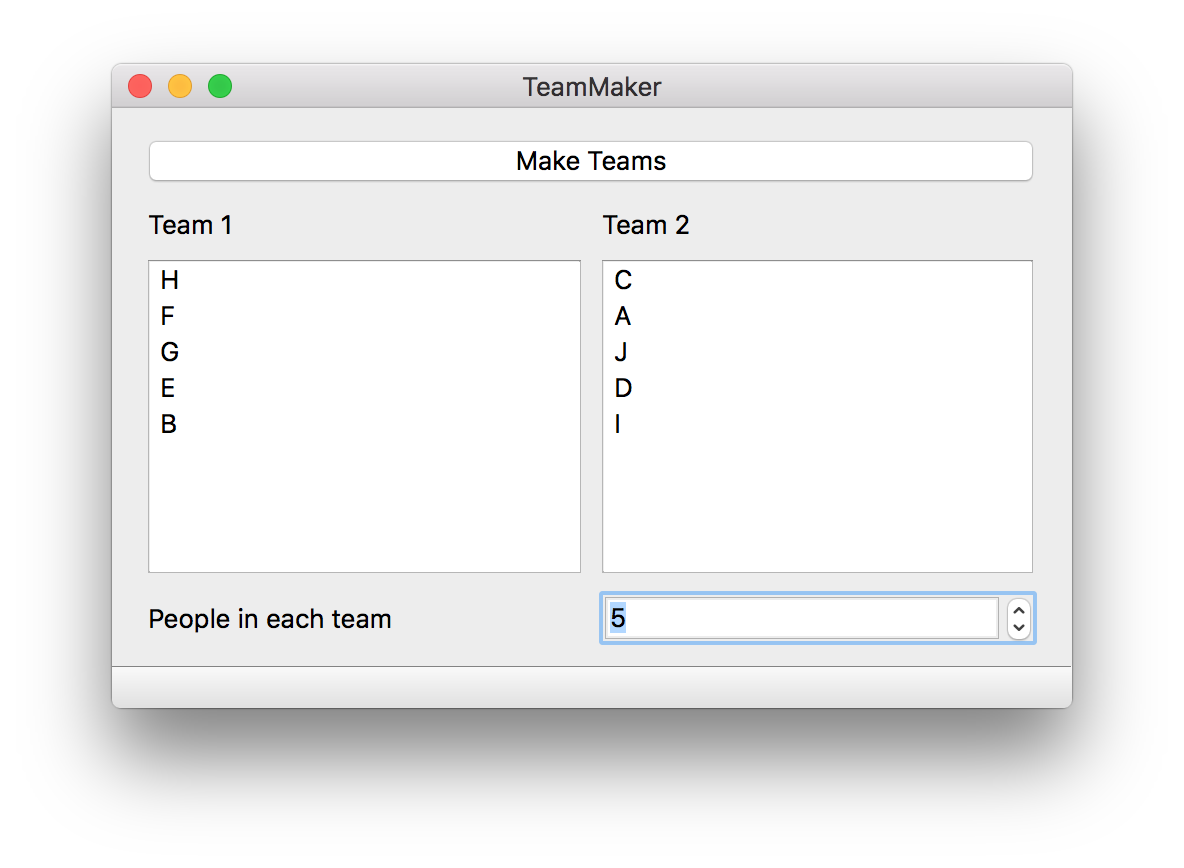
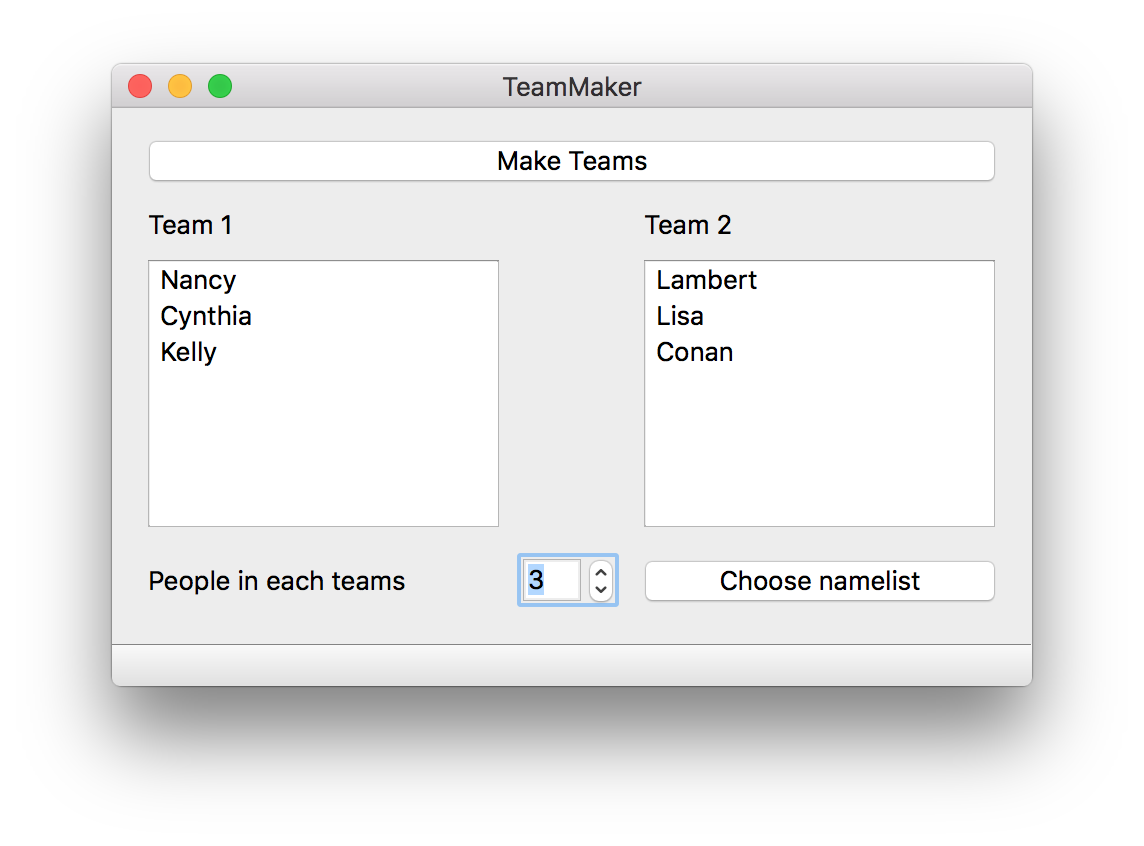
add file dialog

diff --git a/ui.py b/ui.py
@@ -1,6 +1,6 @@
 # -*- coding: utf-8 -*-
 
-# Form implementation generated from reading ui file '/Users/bill/Desktop/untitled.ui'
+# Form implementation generated from reading ui file 'ui.ui'
 #
 # Created by: PyQt5 UI code generator 5.5.1
 #
@@ -11,44 +11,45 @@ from PyQt5 import QtCore, QtGui, QtWidgets
 class Ui_MainWindow(object):
     def setupUi(self, MainWindow):
         MainWindow.setObjectName("MainWindow")
-        MainWindow.resize(480, 300)
+        MainWindow.resize(460, 289)
         self.centralwidget = QtWidgets.QWidget(MainWindow)
         self.centralwidget.setObjectName("centralwidget")
         self.gridLayout_2 = QtWidgets.QGridLayout(self.centralwidget)
         self.gridLayout_2.setObjectName("gridLayout_2")
         self.gridLayout = QtWidgets.QGridLayout()
         self.gridLayout.setObjectName("gridLayout")
-        self.label = QtWidgets.QLabel(self.centralwidget)
-        self.label.setObjectName("label")
-        self.gridLayout.addWidget(self.label, 1, 0, 1, 1)
-        self.listWidget = QtWidgets.QListWidget(self.centralwidget)
-        self.listWidget.setObjectName("listWidget")
-        self.gridLayout.addWidget(self.listWidget, 2, 0, 1, 1)
-        self.label_3 = QtWidgets.QLabel(self.centralwidget)
-        self.label_3.setObjectName("label_3")
-        self.gridLayout.addWidget(self.label_3, 3, 0, 1, 1)
-        spacerItem = QtWidgets.QSpacerItem(40, 20, QtWidgets.QSizePolicy.Expanding, QtWidgets.QSizePolicy.Minimum)
-        self.gridLayout.addItem(spacerItem, 3, 2, 1, 1)
-        self.spinBox = QtWidgets.QSpinBox(self.centralwidget)
-        self.spinBox.setObjectName("spinBox")
-        self.gridLayout.addWidget(self.spinBox, 3, 1, 1, 1)
-        self.pushButton = QtWidgets.QPushButton(self.centralwidget)
-        self.pushButton.setCheckable(False)
-        self.pushButton.setChecked(False)
-        self.pushButton.setFlat(False)
-        self.pushButton.setObjectName("pushButton")
-        self.gridLayout.addWidget(self.pushButton, 0, 0, 1, 2)
-        self.label_2 = QtWidgets.QLabel(self.centralwidget)
-        self.label_2.setObjectName("label_2")
-        self.gridLayout.addWidget(self.label_2, 1, 1, 1, 1)
         self.listWidget_2 = QtWidgets.QListWidget(self.centralwidget)
         self.listWidget_2.setObjectName("listWidget_2")
-        self.gridLayout.addWidget(self.listWidget_2, 2, 1, 1, 1)
-        self.gridLayout_2.addLayout(self.gridLayout, 0, 0, 1, 1)
+        self.gridLayout.addWidget(self.listWidget_2, 2, 3, 1, 1)
+        self.label_2 = QtWidgets.QLabel(self.centralwidget)
+        self.label_2.setObjectName("label_2")
+        self.gridLayout.addWidget(self.label_2, 1, 3, 1, 1)
+        self.pushButton = QtWidgets.QPushButton(self.centralwidget)
+        self.pushButton.setLayoutDirection(QtCore.Qt.LeftToRight)
+        self.pushButton.setObjectName("pushButton")
+        self.gridLayout.addWidget(self.pushButton, 0, 1, 1, 3)
+        self.listWidget = QtWidgets.QListWidget(self.centralwidget)
+        self.listWidget.setObjectName("listWidget")
+        self.gridLayout.addWidget(self.listWidget, 2, 1, 1, 1)
+        self.label = QtWidgets.QLabel(self.centralwidget)
+        self.label.setObjectName("label")
+        self.gridLayout.addWidget(self.label, 1, 1, 1, 1)
+        self.label_3 = QtWidgets.QLabel(self.centralwidget)
+        self.label_3.setObjectName("label_3")
+        self.gridLayout.addWidget(self.label_3, 3, 1, 1, 1)
+        self.spinBox = QtWidgets.QSpinBox(self.centralwidget)
+        self.spinBox.setObjectName("spinBox")
+        self.gridLayout.addWidget(self.spinBox, 3, 2, 1, 1)
+        self.pushButton_2 = QtWidgets.QPushButton(self.centralwidget)
+        self.pushButton_2.setEnabled(True)
+        self.pushButton_2.setFocusPolicy(QtCore.Qt.TabFocus)
+        self.pushButton_2.setObjectName("pushButton_2")
+        self.gridLayout.addWidget(self.pushButton_2, 3, 3, 1, 1)
+        self.gridLayout_2.addLayout(self.gridLayout, 2, 0, 1, 1)
         MainWindow.setCentralWidget(self.centralwidget)
-        self.statusBar = QtWidgets.QStatusBar(MainWindow)
-        self.statusBar.setObjectName("statusBar")
-        MainWindow.setStatusBar(self.statusBar)
+        self.statusbar = QtWidgets.QStatusBar(MainWindow)
+        self.statusbar.setObjectName("statusbar")
+        MainWindow.setStatusBar(self.statusbar)
 
         self.retranslateUi(MainWindow)
         QtCore.QMetaObject.connectSlotsByName(MainWindow)
@@ -56,8 +57,10 @@ class Ui_MainWindow(object):
     def retranslateUi(self, MainWindow):
         _translate = QtCore.QCoreApplication.translate
         MainWindow.setWindowTitle(_translate("MainWindow", "TeamMaker"))
-        self.label.setText(_translate("MainWindow", "Team 1"))
-        self.label_3.setText(_translate("MainWindow", "People in each team"))
-        self.pushButton.setText(_translate("MainWindow", "Make Teams"))
         self.label_2.setText(_translate("MainWindow", "Team 2"))
+        self.pushButton.setText(_translate("MainWindow", "Make Teams"))
+        self.label.setText(_translate("MainWindow", "Team 1"))
+        self.label_3.setText(_translate("MainWindow", "People in each teams"))
+        self.pushButton_2.setText(_translate("MainWindow", "Choose namelist"))
+        self.pushButton_2.sizeHint()
 

diff --git a/teammaker.py b/teammaker.py
@@ -1,34 +1,35 @@
-from PyQt5.QtWidgets import QApplication, QMainWindow
-from PyQt5.QtCore import Qt
+from PyQt5.QtWidgets import QApplication, QMainWindow, QFileDialog
 from ui import Ui_MainWindow
 import sys
 import os
 import random
-import time
 
 
 class MyMainWindow(QMainWindow, Ui_MainWindow):
     def __init__(self):
         super(MyMainWindow, self).__init__()
         self.setupUi(self)
-        # self.label.setText('Pros')
-        # self.label_2.setText('Cons')
         self.pushButton.clicked.connect(self.do)
+        self.pushButton_2.clicked.connect(self.get_file_path)
+
+    def get_file_path(self):
+        self.file_path=QFileDialog.getOpenFileName(self,'Open File',os.getcwd())[0]
 
     def do(self):
         self.listWidget.clear()
         self.listWidget_2.clear()
-        path = os.path.join(os.getcwd(), 'namelist.txt')
+        if hasattr(self,'file_path') is False:
+            self.file_path = os.path.join(os.getcwd(), 'namelist.txt')
         try:
             people_num = self.spinBox.value()
-            with open(path, 'r') as file:
+            with open(self.file_path, 'r') as file:
                 namelist = file.readlines()
             if people_num * 2 > len(namelist):
                 raise ValueError
             random.shuffle(namelist)
-            namelist=namelist[:people_num*2]
+            namelist = namelist[:people_num * 2]
             for i in range(len(namelist)):
-                namelist[i]=namelist[i].replace('\n','')
+                namelist[i] = namelist[i].replace('\n', '')
             self.listWidget.addItems(namelist[:people_num])
             self.listWidget_2.addItems(namelist[people_num:])
         except FileNotFoundError as e:
